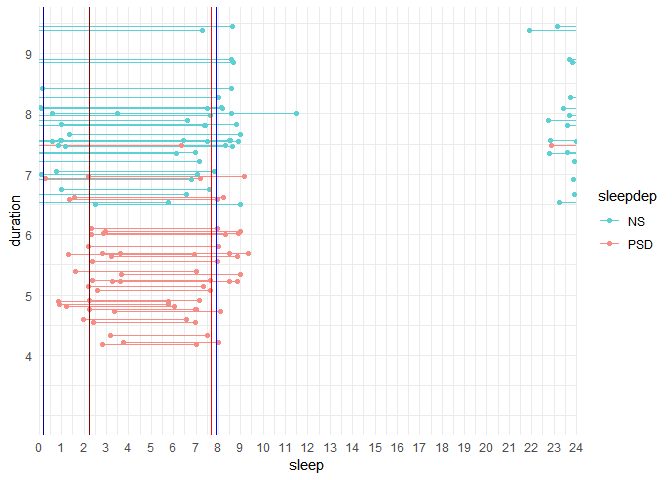
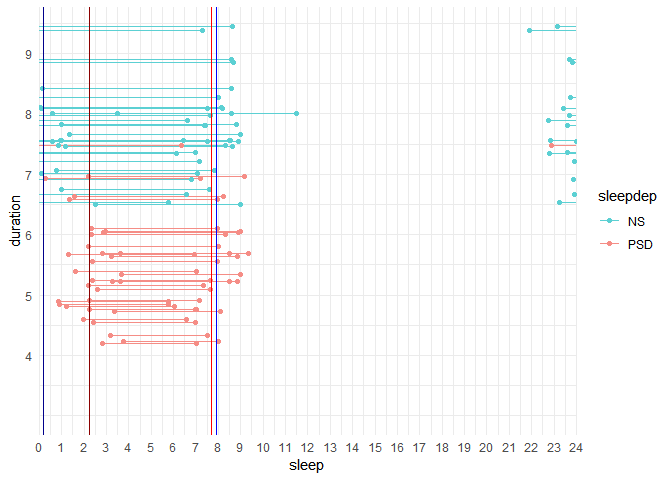
ex 2 markdown and figures + improved first fig

diff --git a/ex2/report/Circle plot - sleep times.md b/ex2/report/Circle plot - sleep times.md
@@ -1,7 +1,6 @@
 # Circle Plot: Sleep times
 
-<img src="Circle-plot---sleep-times_files/figure-commonmark/p..-1.png"
-width="650" height="500" />
+![](Circle-plot---sleep-times_files/figure-commonmark/p..-1.png)
 
 
 
